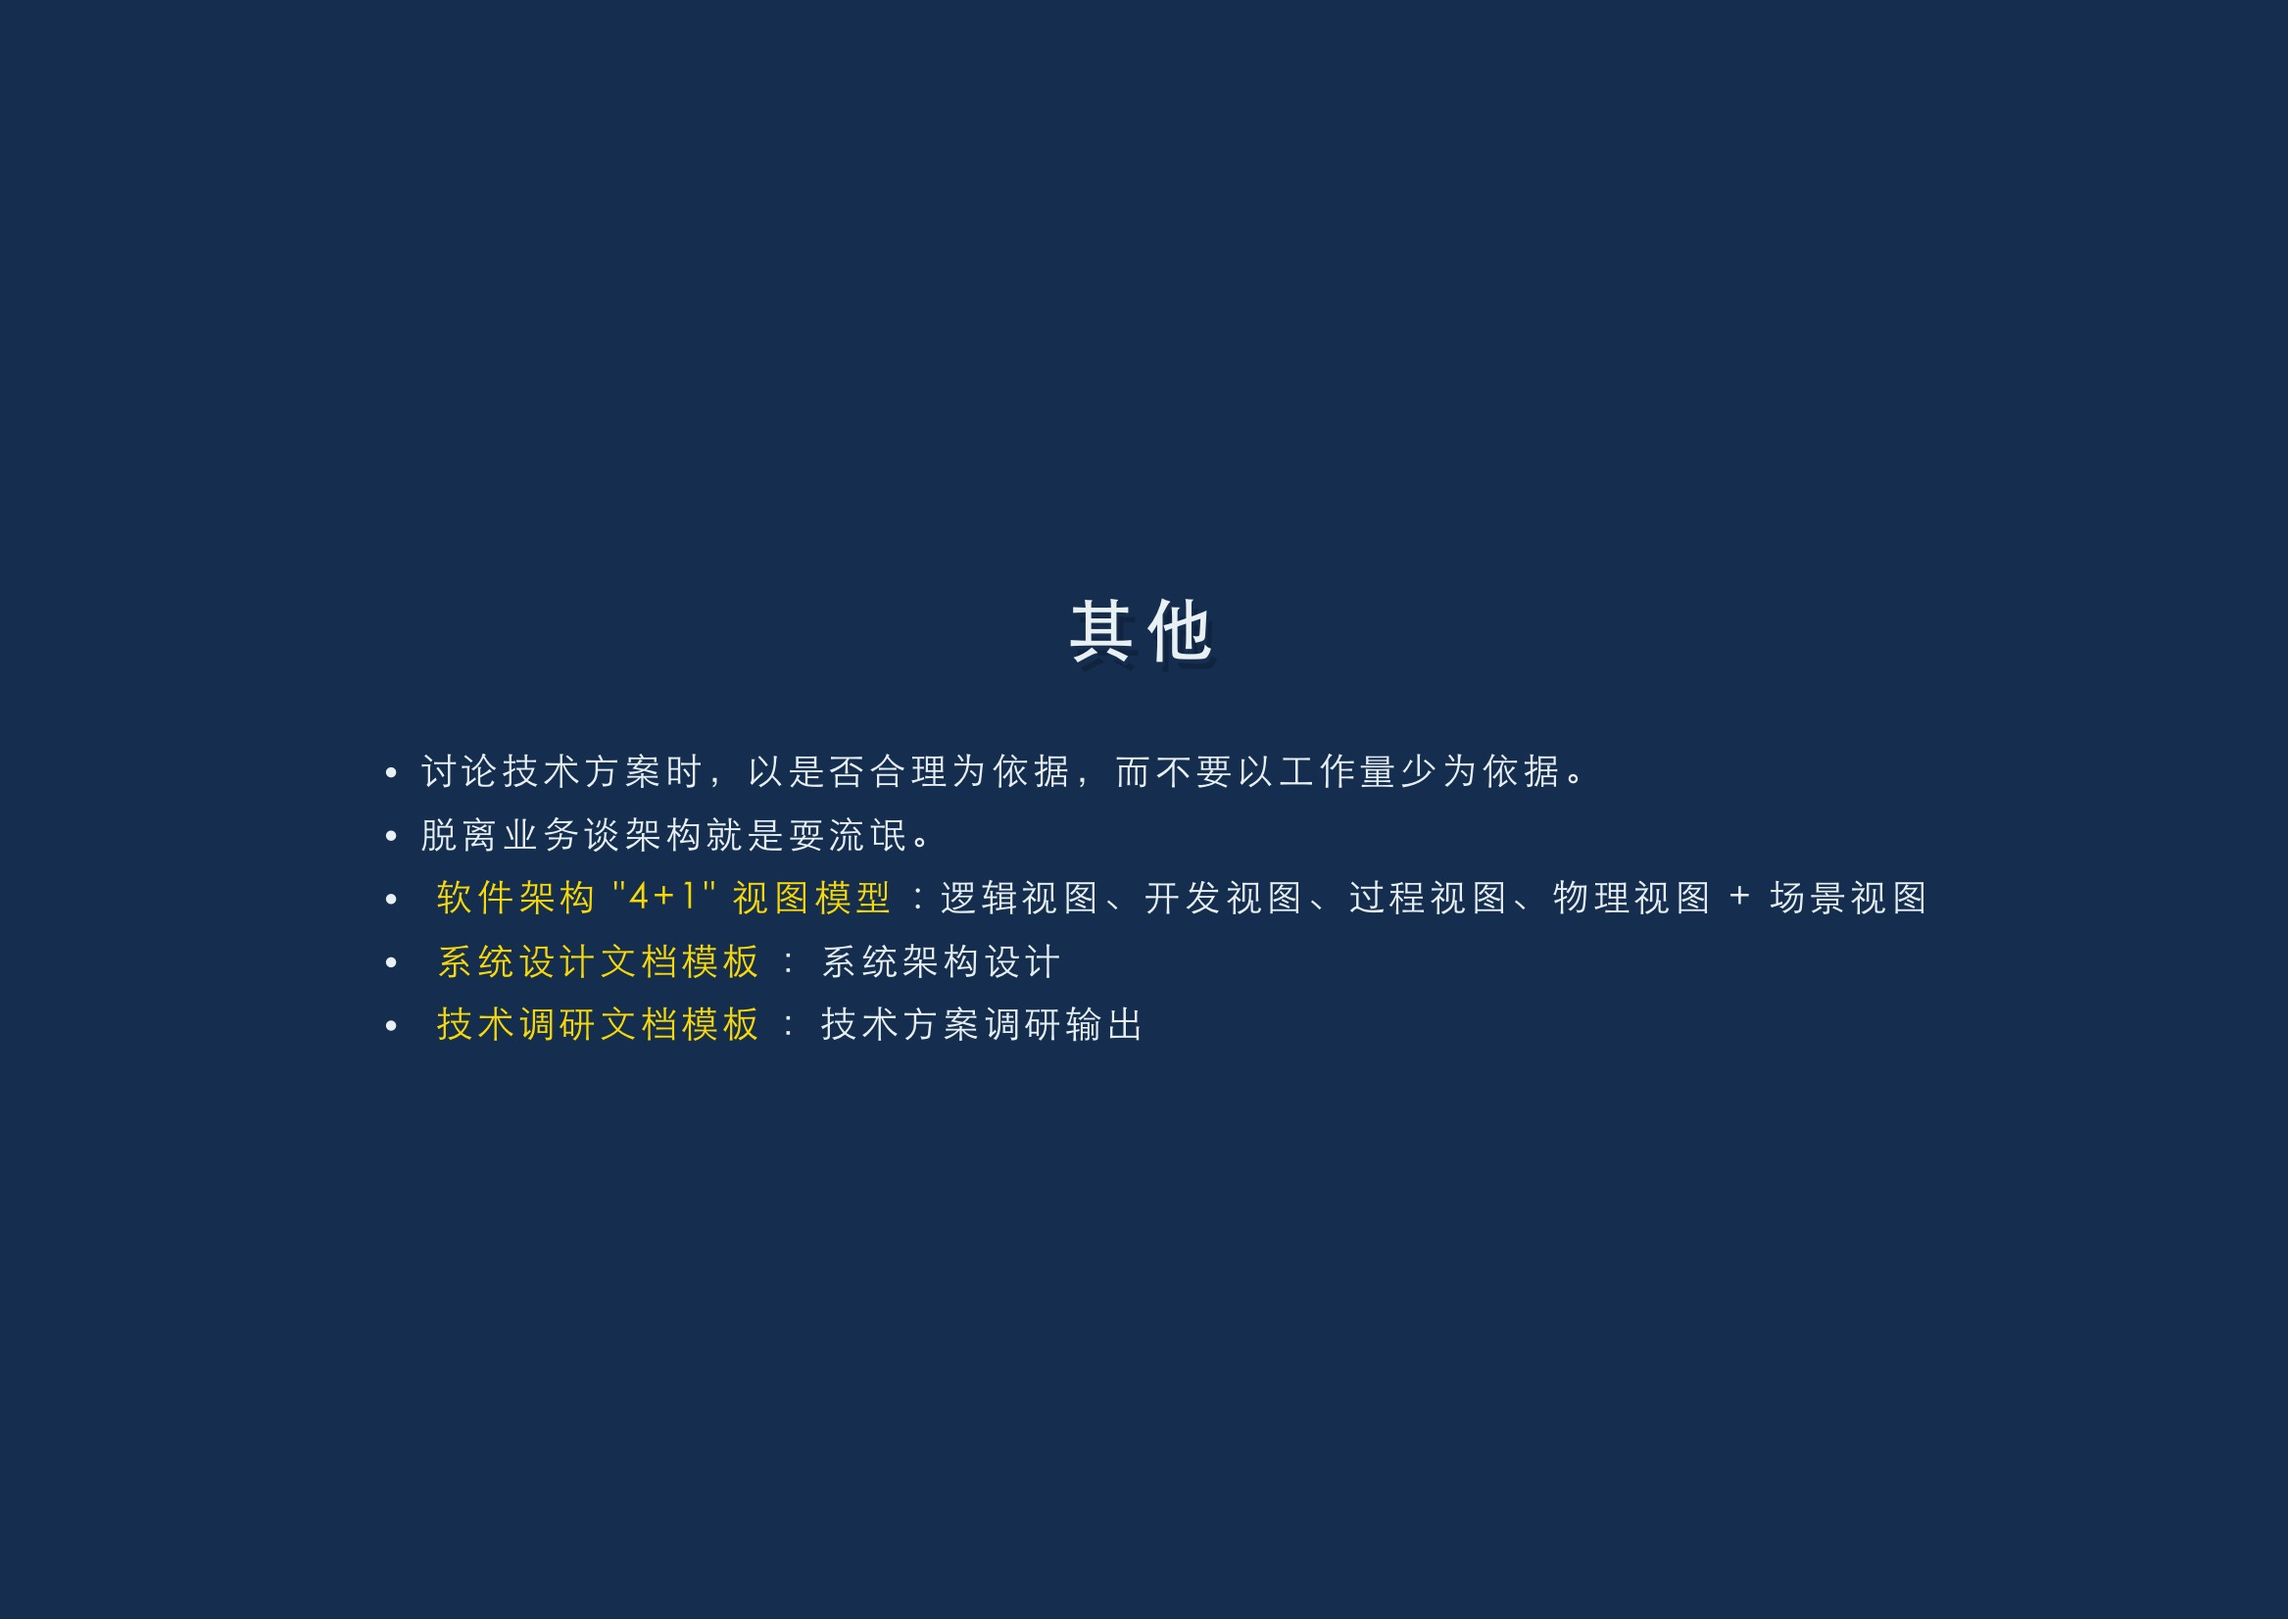
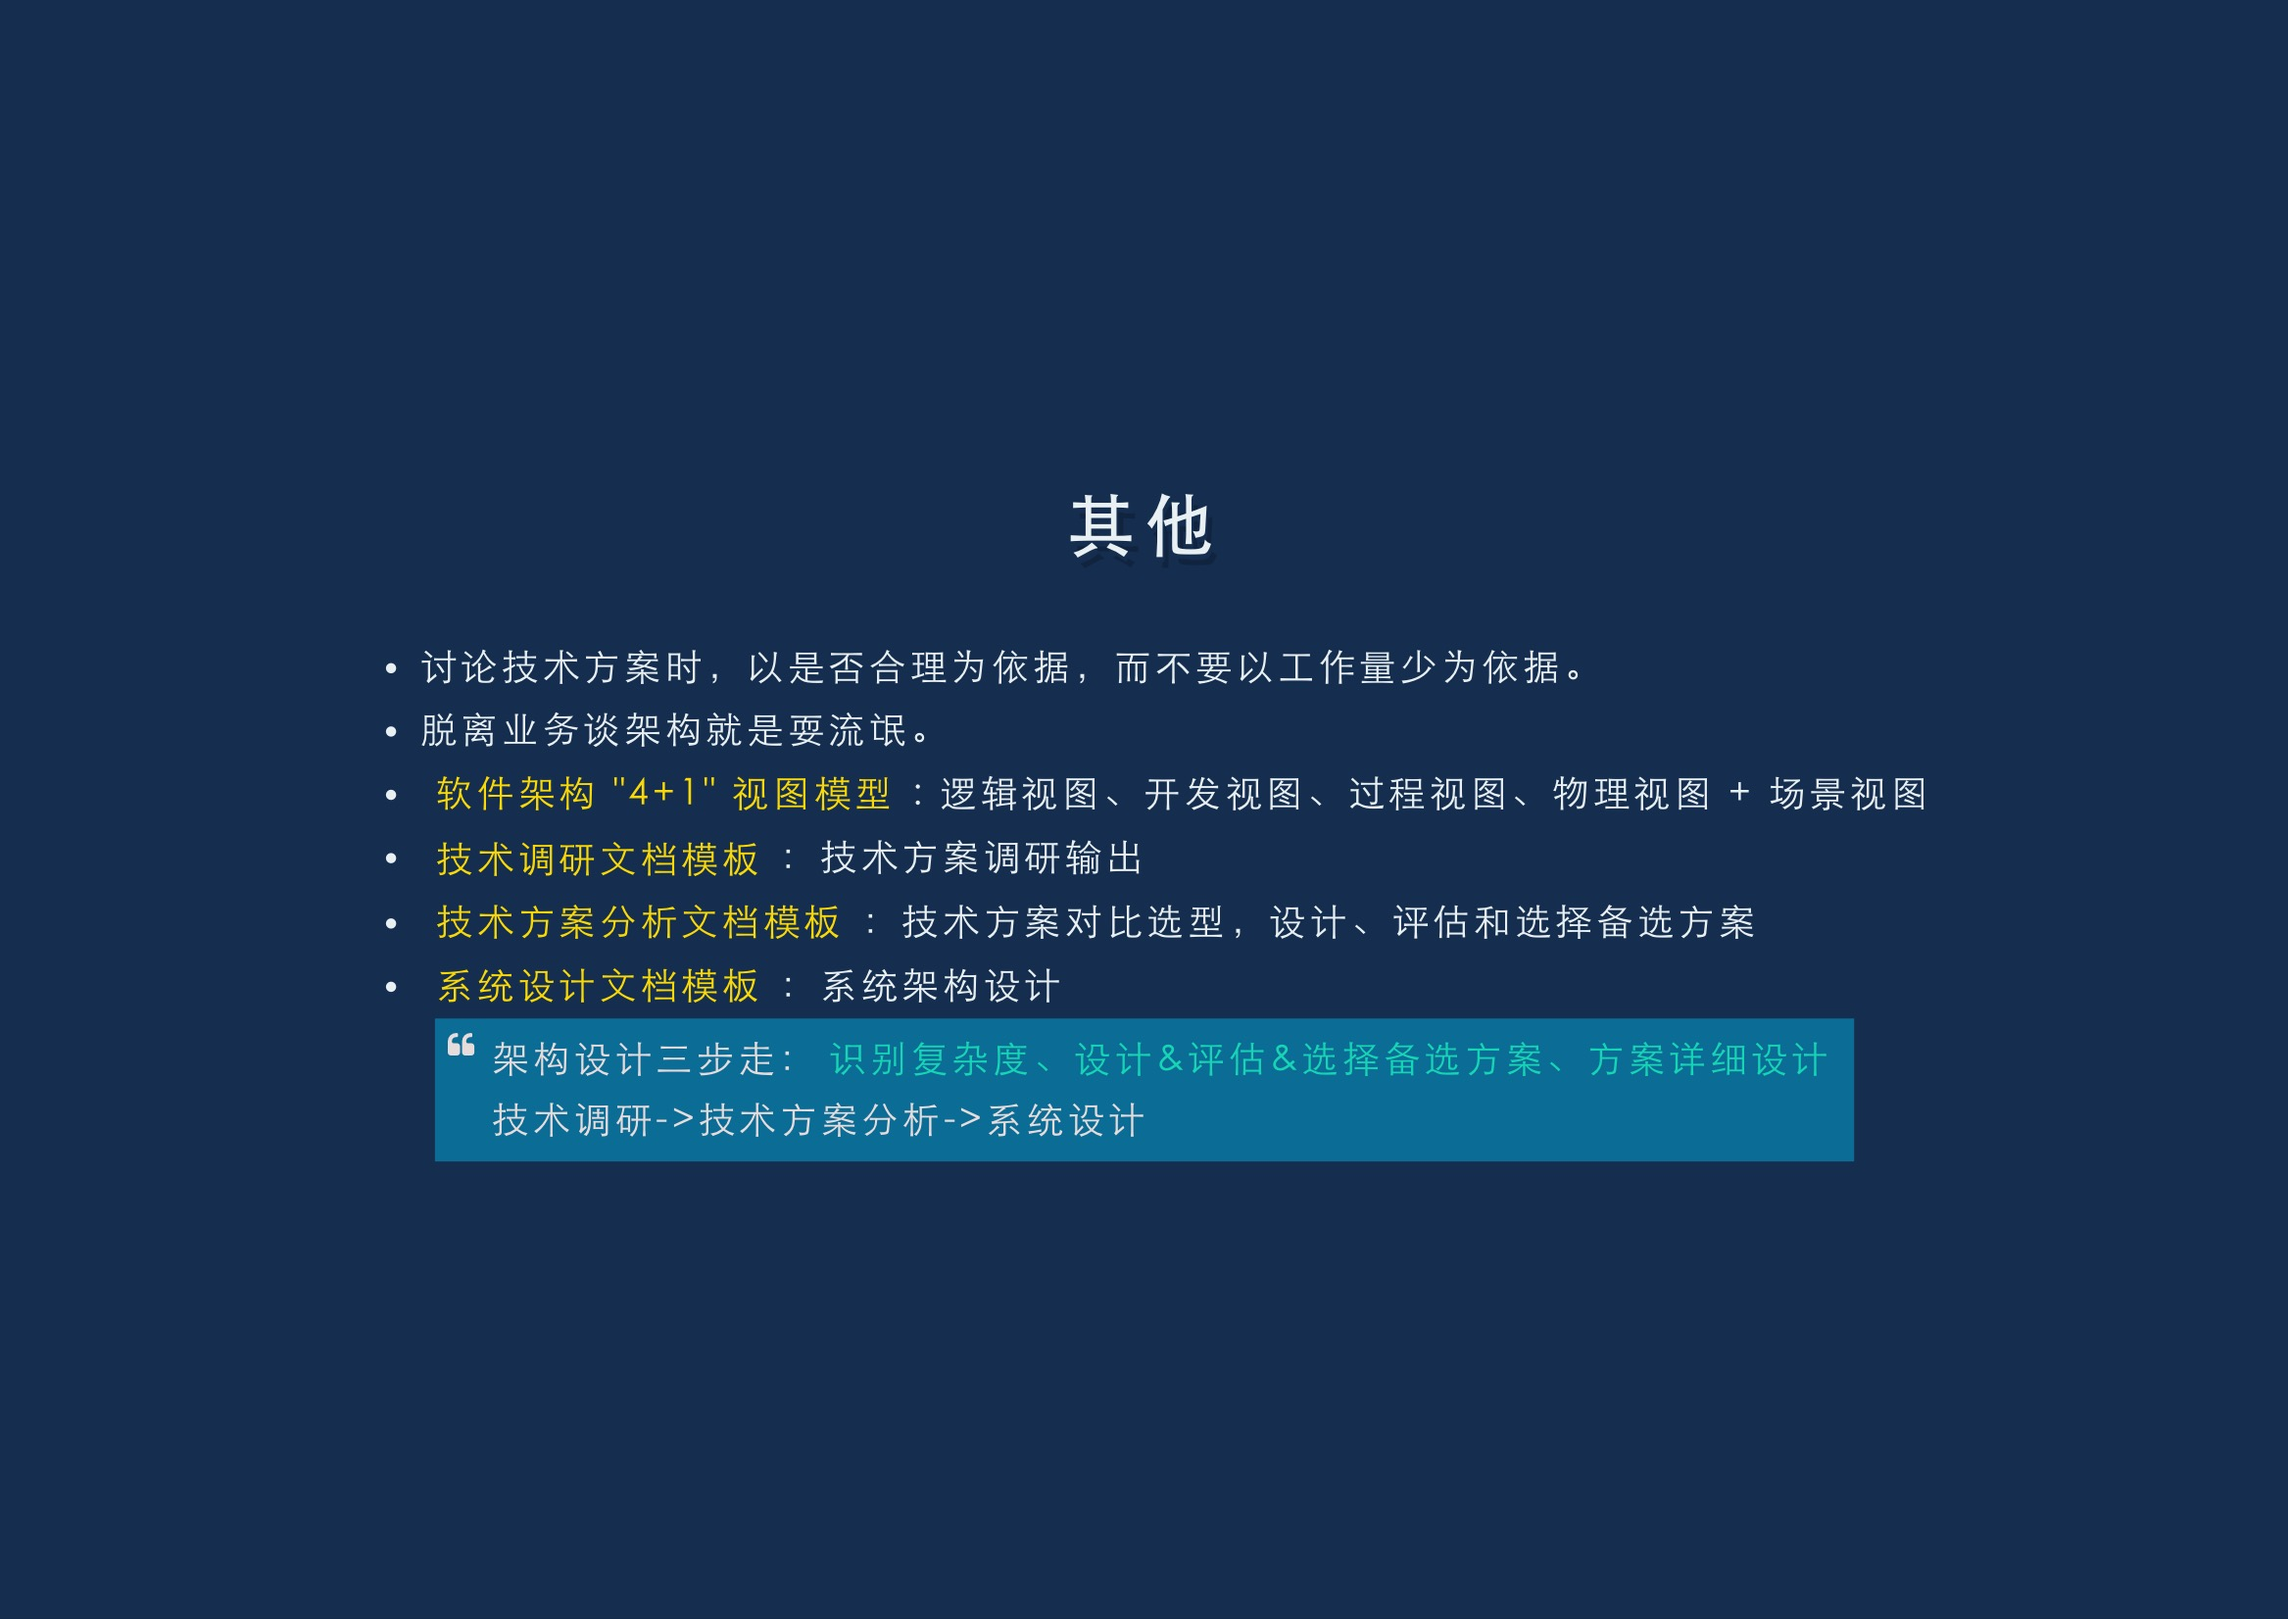
Site updated at 2018-11-29 15:58:29 UTC

diff --git a/blog/2018/09/20/arch-new/index.html b/blog/2018/09/20/arch-new/index.html
@@ -14,7 +14,7 @@
     <script src="https://cdnjs.cloudflare.com/ajax/libs/es5-shim/4.5.7/es5-sham.min.js"></script>
     <![endif]-->
   
-  <meta name="description" content="架构设计与原则（2018修订版） Sep 20th, 2018 Posted by 飒然Hang in architecture 之前的《谈谈架构》的最新修订版。 附录链接： 软件架构 &ldquo;4+1&rdquo; 视图模型: 逻辑视图、开发视图、过程视图、物理视图 + 场景视图 &hellip;">
+  <meta name="description" content="架构设计与原则（2018修订版） Sep 20th, 2018 Posted by 飒然Hang in architecture 之前的《谈谈架构》的最新修订版。 来自在公司内部的一次分享 附录链接： 软件架构 &ldquo;4+1&rdquo; 视图模型: 逻辑视图、开发视图、过程视图、 &hellip;">
   
 
   <meta name="HandheldFriendly" content="True">
@@ -154,6 +154,8 @@
 
 <div class="post-content"><p>之前的<a href="http://www.rowkey.me/blog/2017/08/24/arch/">《谈谈架构》</a>的最新修订版。</p>
 
+<p><strong>来自在公司内部的一次分享</strong></p>
+
 <!--more-->
 
 
@@ -190,8 +192,9 @@
 
 <ul>
 <li><a href="https://www.ibm.com/developerworks/cn/rational/06/r-wenyu/index.html">软件架构 &ldquo;4+1&rdquo; 视图模型</a>: 逻辑视图、开发视图、过程视图、物理视图 + 场景视图</li>
-<li><a href="https://github.com/superhj1987/awesome-tech-collections/blob/master/document/arch.md">系统设计文档模板</a>:系统架构设计</li>
 <li><a href="https://github.com/superhj1987/awesome-tech-collections/blob/master/document/tech-research.md">技术调研文档模板</a>:技术方案调研输出</li>
+<li><a href="https://github.com/superhj1987/awesome-tech-collections/blob/master/document/tech-analysis.md">技术方案分析文档模板</a>: 技术方案选型，设计、评估和选择备选方案</li>
+<li><a href="https://github.com/superhj1987/awesome-tech-collections/blob/master/document/arch.md">系统设计文档模板</a>:系统架构设计</li>
 </ul>
 
 </div>

diff --git a/index.html b/index.html
@@ -14,7 +14,7 @@
     <script src="https://cdnjs.cloudflare.com/ajax/libs/es5-shim/4.5.7/es5-sham.min.js"></script>
     <![endif]-->
   
-  <meta name="description" content="如何应对在线故障 Nov 22nd, 2018 线上运行的Java应用突然没有响应、响应缓慢，进程突然消失，遇到这些情况应该如何应对呢？ 继续阅读 &rarr; Java应用性能调优之调优准备 Oct 31st, 2018 实际的开发工作中，有时候会遇到程序突然变得响应缓慢或者进程消失的情况。 &hellip;">
+  <meta name="description" content="如何应对在线故障 Nov 22nd, 2018 线上运行的Java应用突然没有响应、响应缓慢，进程突然消失，遇到这些情况应该如何应对呢？ 来自在公司内部的一次分享 继续阅读 &rarr; Java应用性能调优之调优准备 Oct 31st, 2018 实际的开发工作中， &hellip;">
   
 
   <meta name="HandheldFriendly" content="True">
@@ -144,6 +144,8 @@
 
   <div class="post-content"><p>线上运行的Java应用突然没有响应、响应缓慢，进程突然消失，遇到这些情况应该如何应对呢？</p>
 
+<p><strong>来自在公司内部的一次分享</strong></p>
+
 </div>
   
   
@@ -227,6 +229,8 @@
 
 
   <div class="post-content"><p>之前的<a href="http://www.rowkey.me/blog/2017/08/24/arch/">《谈谈架构》</a>的最新修订版。</p>
+
+<p><strong>来自在公司内部的一次分享</strong></p>
 
 </div>
   

diff --git a/blog/2018/11/22/online-debug/index.html b/blog/2018/11/22/online-debug/index.html
@@ -14,7 +14,7 @@
     <script src="https://cdnjs.cloudflare.com/ajax/libs/es5-shim/4.5.7/es5-sham.min.js"></script>
     <![endif]-->
   
-  <meta name="description" content="如何应对在线故障 Nov 22nd, 2018 Posted by 飒然Hang in architecture 线上运行的Java应用突然没有响应、响应缓慢，进程突然消失，遇到这些情况应该如何应对呢？ ID: servertalk 关注[后端技术杂谈] 把握后端技术 &hellip;">
+  <meta name="description" content="如何应对在线故障 Nov 22nd, 2018 Posted by 飒然Hang in architecture 线上运行的Java应用突然没有响应、响应缓慢，进程突然消失，遇到这些情况应该如何应对呢？ 来自在公司内部的一次分享 ID: servertalk 关注[后端技术杂谈] 把握后端技术 &hellip;">
   
 
   <meta name="HandheldFriendly" content="True">
@@ -153,6 +153,8 @@
 
 
 <div class="post-content"><p>线上运行的Java应用突然没有响应、响应缓慢，进程突然消失，遇到这些情况应该如何应对呢？</p>
+
+<p><strong>来自在公司内部的一次分享</strong></p>
 
 <!--more-->
 

diff --git a/blog/2018/03/10/regx/index.html b/blog/2018/03/10/regx/index.html
@@ -351,7 +351,7 @@
 
 <hr />
 
-<p>中华万年历技术团队长期求Java研发工程师，给你挑战<strong>亿级用户</strong>、<strong>千万日活APP</strong>开发的机会。感兴趣者可发送简历到<a href="&#x6d;&#x61;&#x69;&#x6c;&#x74;&#x6f;&#x3a;&#104;&#x61;&#110;&#x67;&#64;&#101;&#x74;&#111;&#x75;&#x63;&#104;&#x2e;&#x63;&#110;">&#x68;&#97;&#110;&#103;&#x40;&#101;&#116;&#111;&#117;&#x63;&#104;&#x2e;&#99;&#x6e;</a>。要求如下：</p>
+<p>中华万年历技术团队长期求Java研发工程师，给你挑战<strong>亿级用户</strong>、<strong>千万日活APP</strong>开发的机会。感兴趣者可发送简历到<a href="&#x6d;&#x61;&#x69;&#x6c;&#x74;&#x6f;&#x3a;&#x68;&#x61;&#110;&#x67;&#x40;&#x65;&#116;&#111;&#117;&#99;&#x68;&#x2e;&#99;&#x6e;">&#x68;&#x61;&#x6e;&#x67;&#64;&#x65;&#x74;&#x6f;&#x75;&#99;&#104;&#46;&#x63;&#110;</a>。要求如下：</p>
 
 <p><img src="/images/blog_images/java_job.jpg" width="350" style="margin:0 auto;display:block"/></p>
 
